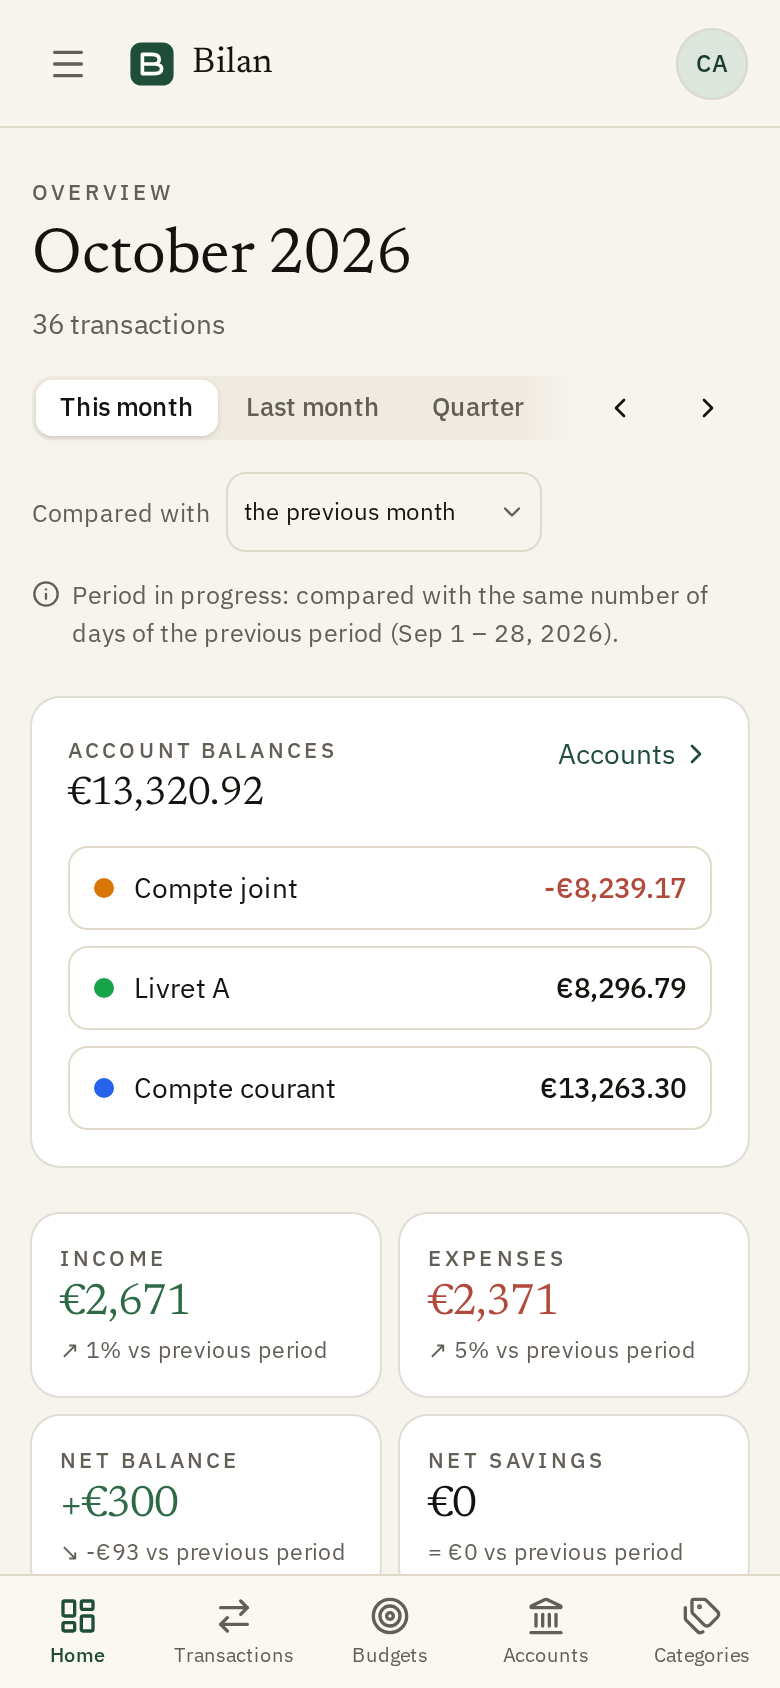
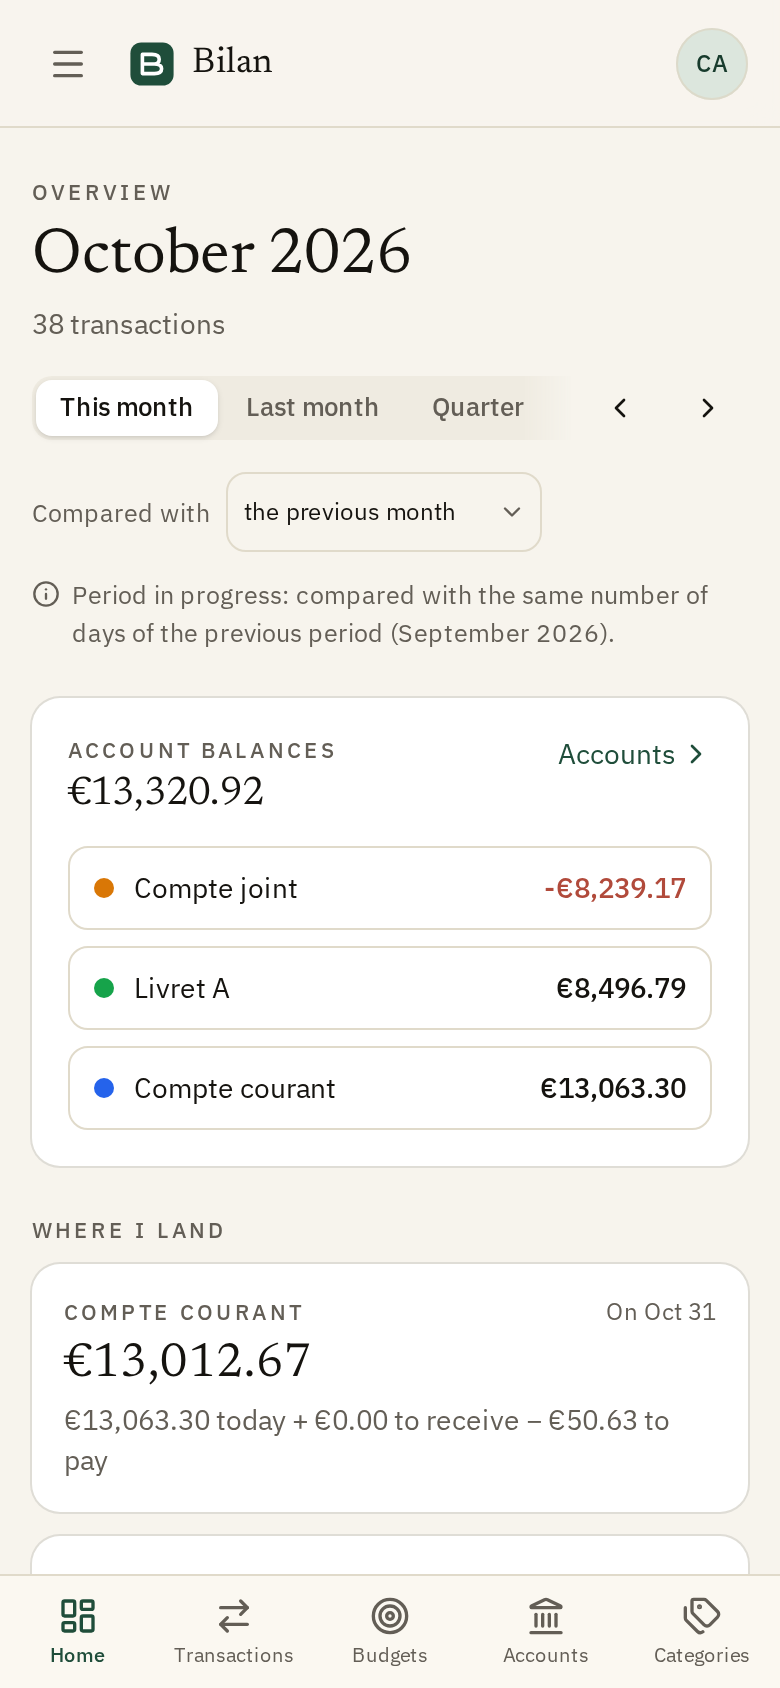
feat: show end-of-period landing cards on the dashboard (#362)
* feat: show end-of-period landing cards on the dashboard

* docs: refresh the dashboard screenshots with the landing cards

diff --git a/tests/integration/budgets-account.test.ts b/tests/integration/budgets-account.test.ts
@@ -6,6 +6,7 @@ import {
   createBudget,
   getBudgetDetail,
   listBudgetsForUser,
+  listCurrentLandings,
   rollRecurring,
   rollRecurringBudgets,
   unarchiveBudget,
@@ -74,6 +75,7 @@ async function cleanData() {
   await db.budget.deleteMany({ where: { OR: [{ userId: { in: users } }, { groupId }] } });
   await db.transaction.deleteMany({ where: { account: { ownerId: { in: users } } } });
   await db.transactionLink.deleteMany({ where: { createdById: { in: users } } });
+  await db.category.deleteMany({ where: { userId: stranger } });
 }
 
 beforeAll(async () => {
@@ -606,6 +608,49 @@ describe("landing", () => {
       spendingToCome: 40,
       endBalance: 940,
     });
+  });
+
+  it("lists the landing of every attached budget in progress the user reads", async () => {
+    const { id } = await landingBudget();
+    const household = await createBudget(
+      input({ name: "Foyer", groupId, accountId: joint, outOfBudgetPlanned: 80 }),
+      { id: owner },
+    );
+    await createBudget(input({ accountId: undefined, name: "Libre" }), { id: owner });
+    await createBudget(input({ ...april, name: "Avril" }), { id: owner });
+    const theirs = await db.category.create({ data: { userId: stranger, name: "Autre" } });
+    const other = await createBudget(
+      input({
+        accountId: strangerAccount,
+        name: "Autre",
+        lines: [{ categoryId: theirs.id, plannedAmount: 50 }],
+      }),
+      { id: stranger },
+    );
+
+    const lands = await listCurrentLandings(owner, now);
+    expect(lands.map((l) => l.id).sort()).toEqual([id, household.id].sort());
+    const detail = await getBudgetDetail(id, owner, { now });
+    expect(lands.find((l) => l.id === id)).toEqual({
+      id,
+      accountId: courant,
+      accountName: "Courant",
+      periodEnd: detail.periodEnd,
+      landing: detail.landing,
+      unplannedIncome: detail.unplannedIncome,
+    });
+    expect(lands.find((l) => l.id === household.id)?.landing).toEqual({
+      balance: 0,
+      incomeToCome: 0,
+      spendingToCome: 180,
+      endBalance: -180,
+    });
+    expect((await listCurrentLandings(member, now)).map((l) => l.id)).toEqual([household.id]);
+    expect((await listCurrentLandings(stranger, now)).map((l) => l.id)).toEqual([other.id]);
+
+    await archiveBudget(id, { id: owner });
+    expect((await listCurrentLandings(owner, now)).map((l) => l.id)).toEqual([household.id]);
+    expect(await listCurrentLandings(owner, new Date("2026-05-15T12:00:00.000Z"))).toEqual([]);
   });
 
   it("has no landing outside the period, unattached, archived, or once the account is unshared", async () => {

diff --git a/tests/integration/budgets-batch.test.ts b/tests/integration/budgets-batch.test.ts
@@ -5,6 +5,7 @@ import {
   createBudget,
   getBudgetDetail,
   listBudgetsForUser,
+  listCurrentLandings,
 } from "@/server/services/budgets";
 import { buildSecureFields } from "@/server/services/transactions/secure-fields";
 import { createLink } from "@/server/services/links";
@@ -200,5 +201,39 @@ describe("listBudgetsForUser batch loading (#299)", () => {
     const before = await queriesOfList();
     for (const month of ["2024-06", "2024-07", "2024-08"]) await attachedMonth(month);
     expect(await queriesOfList()).toBe(before);
+  });
+
+  it("computes the current landings in as many queries for many accounts as for one", async () => {
+    const now = new Date("2023-03-15T12:00:00.000Z");
+    const attached = (accountId: string, counterpartAccountId: string) =>
+      createBudget(
+        {
+          name: `Atterrissage ${accountId}`,
+          periodType: "MONTH",
+          periodStart: "2023-03-01",
+          periodEnd: "2023-03-31",
+          accountId,
+          lines: [
+            { categoryId: food, plannedAmount: 100 },
+            { kind: "TRANSFER", direction: "OUT", counterpartAccountId, plannedAmount: 50 },
+          ],
+        },
+        { id: owner },
+      );
+    const queriesOfLandings = async () => {
+      const before = await questions();
+      const lands = await listCurrentLandings(owner, now);
+      return { lands, queries: (await questions()) - before - 1 };
+    };
+    await tx(personal, "2023-03-05", -10, food);
+    await tx(shared, "2023-03-06", -20, food);
+    await attached(personal, shared);
+    await queriesOfLandings();
+    const one = await queriesOfLandings();
+    expect(one.lands).toHaveLength(1);
+    await attached(shared, personal);
+    const two = await queriesOfLandings();
+    expect(two.lands).toHaveLength(2);
+    expect(two.queries).toBe(one.queries);
   });
 });

diff --git a/src/server/services/budgets/index.ts b/src/server/services/budgets/index.ts
@@ -1141,6 +1141,51 @@ export async function getCurrentBudget(
   return { detail, others: current.length - 1, accountNames };
 }
 
+export type CurrentLanding = Pick<BudgetListItem, "id" | "periodEnd" | "unplannedIncome"> & {
+  accountId: string;
+  accountName: string;
+  landing: BudgetLanding;
+};
+
+// The landing of every account-attached budget the user reads whose period contains `now`
+// (design §E, dashboard), evaluated together like the list (#299).
+export async function listCurrentLandings(
+  userId: string,
+  now: Date = new Date(),
+): Promise<CurrentLanding[]> {
+  const { groupIds } = await budgetScopeForUser(userId);
+  const rows = await db.budget.findMany({
+    where: {
+      archived: false,
+      accountId: { not: null },
+      periodStart: { lte: now },
+      periodEnd: { gte: now },
+      OR: [{ userId }, { groupId: { in: groupIds } }],
+    },
+    include: { lines: true },
+    orderBy: { periodStart: "desc" },
+  });
+  if (rows.length === 0) return [];
+  const [evaluations, names] = await Promise.all([
+    evaluateBudgets(rows, { userId, groupIds }, now),
+    readableAccountNames(userId),
+  ]);
+  return rows.flatMap((b, i) => {
+    const { landing, unplannedIncome } = evaluations[i];
+    if (!landing || !b.accountId) return [];
+    return [
+      {
+        id: b.id,
+        accountId: b.accountId,
+        accountName: names.get(b.accountId) ?? "",
+        periodEnd: b.periodEnd,
+        landing,
+        unplannedIncome,
+      },
+    ];
+  });
+}
+
 export async function assignTransaction(
   input: { budgetId: string; transactionId: string; mode: "INCLUDE" | "EXCLUDE" },
   actor: { id: string },

diff --git a/src/app/[locale]/(authenticated)/dashboard/page.tsx b/src/app/[locale]/(authenticated)/dashboard/page.tsx
@@ -3,7 +3,7 @@ import { requireSession } from "@/server/auth/permissions";
 import { listForUser, listForeignCategories } from "@/server/services/categories";
 import { flattenCategories } from "@/components/transactions/category-tree";
 import { getDashboard } from "@/server/services/dashboard";
-import { getCurrentBudget } from "@/server/services/budgets";
+import { getCurrentBudget, listCurrentLandings } from "@/server/services/budgets";
 import { listVisibleForUser } from "@/server/services/accounts";
 import { getOnboardingState } from "@/server/services/onboarding";
 import { getAppName } from "@/server/services/settings/app-settings";
@@ -46,7 +46,7 @@ export default async function DashboardPage({
 
   const period = clampPeriodToNow(parsePeriodParams({ from: sp.from, to: sp.to }));
   const comparison = comparisonFor(period, parseBaseline(sp.vs, period));
-  const [data, categories, budget, accounts] = await Promise.all([
+  const [data, categories, budget, accounts, landings] = await Promise.all([
     getDashboard(user.id, period, comparison),
     // Display only: shared accounts carry their owner's categories too.
     Promise.all([listForUser(user.id), listForeignCategories(user.id)]).then(([own, foreign]) => [
@@ -55,6 +55,7 @@ export default async function DashboardPage({
     ]),
     getCurrentBudget(user.id),
     listVisibleForUser(user.id),
+    listCurrentLandings(user.id),
   ]);
 
   return (
@@ -65,6 +66,7 @@ export default async function DashboardPage({
       categories={categories}
       budget={budget}
       accounts={accounts}
+      landings={landings}
       locale={locale}
     />
   );

diff --git a/src/components/dashboard/dashboard-view.tsx b/src/components/dashboard/dashboard-view.tsx
@@ -19,6 +19,8 @@ import { ComparisonNote } from "./comparison-note";
 import { BudgetSnapshot, type CurrentBudget } from "./budget-snapshot";
 import { AccountsOverview } from "./accounts-overview";
 import type { VisibleAccount } from "@/server/services/accounts";
+import type { CurrentLanding } from "@/server/services/budgets";
+import { LandingCards } from "@/components/budgets/landing-cards";
 
 const OTHERS_COLOR = "var(--ink-4)";
 const DONUT_SLICES = 6;
@@ -36,6 +38,7 @@ export async function DashboardView({
   categories,
   budget,
   accounts,
+  landings,
   locale,
 }: {
   data: DashboardData;
@@ -44,6 +47,7 @@ export async function DashboardView({
   categories: FlatCategory[];
   budget: CurrentBudget;
   accounts: VisibleAccount[];
+  landings: CurrentLanding[];
   locale: string;
 }) {
   const t = await getTranslations("dashboard");
@@ -191,6 +195,11 @@ export async function DashboardView({
       </div>
 
       <AccountsOverview accounts={accounts} locale={locale} />
+      {/* Today's budgets whatever period is displayed, like the balances above (design §E). */}
+      <LandingCards
+        budgets={landings}
+        accountNames={new Map(landings.map((l) => [l.accountId, l.accountName]))}
+      />
 
       {/* KPI row */}
       <div className="grid grid-cols-2 gap-2.5 md:grid-cols-4 md:gap-3">

diff --git a/tests/e2e/budgets.spec.ts b/tests/e2e/budgets.spec.ts
@@ -269,7 +269,7 @@ test.describe("budgets", () => {
     }
   });
 
-  test("an attached budget shows its landing, sections and out-of-budget rows", async ({
+  test("an attached budget shows its landing here and on the dashboard, sections and out-of-budget rows", async ({
     page,
   }) => {
     const stamp = Date.now();
@@ -298,7 +298,11 @@ test.describe("budgets", () => {
 
     const landing = page.locator('[data-slot="landing-card"]').filter({ hasText: account });
     await expect(landing).toContainText("388,00", { timeout: 15_000 });
-    await page.locator('[data-slot="budget-card"]').filter({ hasText: name }).click();
+    await page.goto("/fr/dashboard");
+    const onDashboard = page.locator('[data-slot="landing-card"]').filter({ hasText: account });
+    await expect(onDashboard).toContainText("388,00");
+    await expect(onDashboard).toContainText("488,00");
+    await onDashboard.getByRole("link").click();
     await expect(page.getByRole("heading", { name })).toBeVisible({ timeout: 15_000 });
     await expect(page.locator('[data-slot="budget-income"]')).toBeVisible();
     await expect(page.locator('[data-slot="budget-spending"]')).toBeVisible();

diff --git a/src/i18n/client-scopes.ts b/src/i18n/client-scopes.ts
@@ -43,7 +43,7 @@ export const CLIENT_SCOPES = {
     "stepUp",
     "transactions",
   ],
-  dashboard: ["dashboard", "shell.period", "transactions.assignedMonth"],
+  dashboard: ["budgets.landing", "dashboard", "shell.period", "transactions.assignedMonth"],
   groups: ["forms.fieldError", "groups", "invitations", "shell"],
   import: ["import", "onboarding", "rules", "shell", "transactions"],
   insights: ["dashboard", "insights", "merchants", "shell"],

diff --git a/docs/architecture.md b/docs/architecture.md
@@ -1057,7 +1057,7 @@ Attached budgets (#355, `services/budgets/attached.ts`, pure matching in `lib/bu
 3. Mirrors (`budgetMirrors`): `TRANSFER` lines of other non-archived attached budgets whose counterpart is this account, same `periodType` and `periodStart`, readable by the viewer, become read-only lines in the opposite direction, unless the budget has its own line on that account in that direction.
 4. `bucketRow` puts each non-excluded row in one bucket: a `TRANSFER` line of the row's direction whose counterpart is a partner (or a pending account when unlinked), else the most specific `EXPENSE` line (outflows) or `INCOME` line, then `EXPENSE` as a refund unless the row is a transfer leg (inflows), else out of budget (outflows) or unplanned income (inflows).
 5. Totals: spending = outgoing lines + out of budget, planned = outgoing lines + margin; income lines report what they received. A savings transfer over plan doesn't count toward the budget's `OVER` status. `unplannedIncome.fromSavings` sums unplanned rows whose partner account is `SAVINGS`; `outOfBudget.unmatchedTransfers` counts out-of-budget rows with a pending leg.
-6. Landing (`lib/budgets.budgetLanding`), while `now` is within the period: `balance` = the account's balance from rows dated ≤ now, `+ Σ max(planned − received, 0)` over incoming lines, `− Σ max(planned − spent, 0)` over outgoing lines and the margin, with received/spent counting only rows on the account dated ≤ now; a line's rows on the account dated after now count instead when larger (they aren't in the balance yet). Archived budgets get none. `listBudgetsForUser` returns it per budget; the Budgets page shows one card per account.
+6. Landing (`lib/budgets.budgetLanding`), while `now` is within the period: `balance` = the account's balance from rows dated ≤ now, `+ Σ max(planned − received, 0)` over incoming lines, `− Σ max(planned − spent, 0)` over outgoing lines and the margin, with received/spent counting only rows on the account dated ≤ now; a line's rows on the account dated after now count instead when larger (they aren't in the balance yet). Archived budgets get none. `listBudgetsForUser` returns it per budget; the Budgets page shows one card per account. The dashboard shows the same cards from `listCurrentLandings`, which evaluates only the user's attached budgets in progress today (same batch, whatever period the dashboard displays).
 
 The budget detail lists the latest 100 counted transactions in full to everyone who can read the budget, including a private transaction included in a group budget (§2.2); for a group budget, rows from an account neither shared with the group nor owned by a current member show masked.
 

diff --git a/docs/user-guide.fr.md b/docs/user-guide.fr.md
@@ -458,7 +458,7 @@ Une ligne de virement se saisit une seule fois, dans le budget du compte d’où
 
 #### Où le compte atterrit
 
-Pendant la période en cours, la page **Budgets** commence par **Où j’atterris** : une carte par compte dont le budget est en cours. Son solde en fin de période est :
+Pendant la période en cours, la page **Budgets** commence par **Où j’atterris** : une carte par compte dont le budget est en cours (le tableau de bord affiche les mêmes cartes). Son solde en fin de période est :
 
 > solde d’aujourd’hui + rentrées encore attendues − dépenses encore à venir
 
@@ -609,6 +609,7 @@ Astuce : les virements entre vos propres comptes sont liés automatiquement et r
 ![Tableau de bord](images/fr/dashboard.png)
 
 - **Solde des comptes** : le solde actuel de chaque compte non archivé et leur total, quelle que soit la période choisie. **Comptes** ouvre la page des comptes.
+- **Où j’atterris** : une carte par compte dont le [budget](#où-le-compte-atterrit) est en cours aujourd’hui, avec son solde en fin de période. Comme les soldes, elle montre les budgets du jour quelle que soit la période choisie. Cliquez sur une carte pour ouvrir son budget.
 - **Revenus**, **Dépenses** et **Solde net**, chacun avec son évolution par rapport à la comparaison.
 - **Épargne nette** : les virements liés vers vos comptes d’épargne moins ceux qui en sortent, plus les dépenses des catégories qui [comptent comme de l’épargne](#catégories), avec son évolution par rapport à la comparaison.
 - **Dépenses par catégorie** : un anneau avec les six plus grosses catégories, le reste regroupé.

diff --git a/docs/user-guide.md b/docs/user-guide.md
@@ -458,7 +458,7 @@ A transfer line is set once, in the budget of the account the money leaves. The 
 
 #### Where the account lands
 
-During the current period, the **Budgets** page opens with **Where I land**: one card per account with a budget in progress. Its balance at the period's end is:
+During the current period, the **Budgets** page opens with **Where I land**: one card per account with a budget in progress (the dashboard shows the same cards). Its balance at the period's end is:
 
 > today's balance + income still expected − spending still to come
 
@@ -609,6 +609,7 @@ Tip: transfers between your own accounts are linked automatically and left out o
 ![Dashboard](images/en/dashboard.png)
 
 - **Account balances**: the current balance of each non-archived account and their total, whatever the selected period. **Accounts** opens the accounts page.
+- **Where I land**: one card per account whose [budget](#where-the-account-lands) is in progress today, with its balance at the period's end. Like the balances, it shows today's budgets whatever the selected period. Click a card to open its budget.
 - **Income**, **Expenses** and **Net balance**, each with its change against the comparison.
 - **Net savings**: linked transfers into your savings accounts minus those out of them, plus spending in categories that [count as savings](#categories), with its change against the comparison.
 - **Spending by category**: a donut with the six largest categories, the rest grouped.
